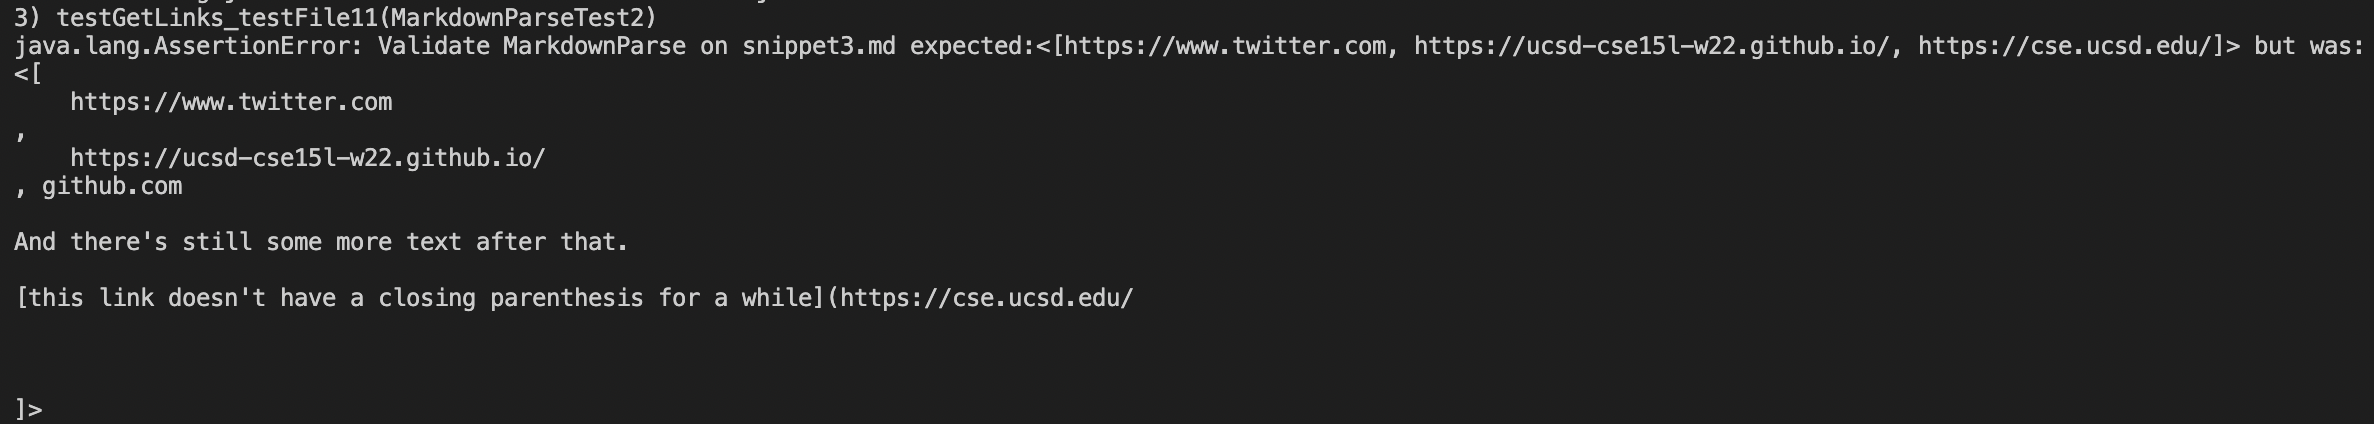
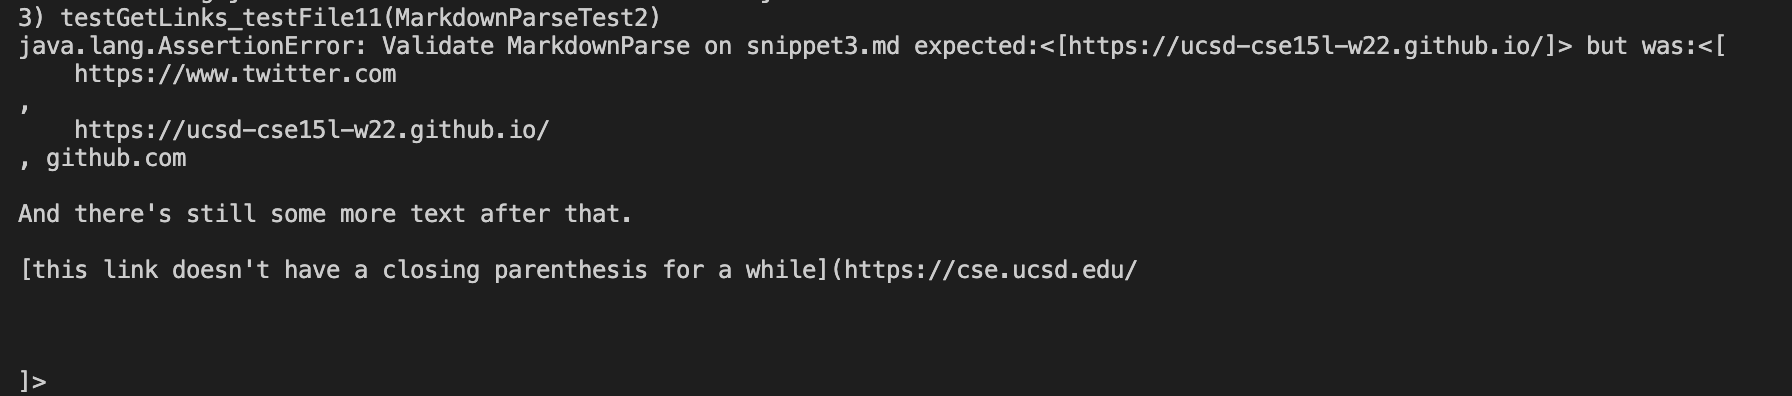
labreport4

diff --git a/lab-report-4-week-8.md b/lab-report-4-week-8.md
@@ -29,6 +29,9 @@
 
 **Output for other group's tests (all three failed)**
 
+![Image](lab4tests2.png)
+
+
 **Snippet 1**
 
 I do think the fix to this bug require a more involved change because there are several different cases where backticks can and cannot be included as part of the markdown for links. Backticks should be allowed in the link itself (as is the case in the second link) as long as they are not preceeded by another backtick before the parentheses. Backticks should also be allowed within the link discriptions (like in the last two links). However, backticks within the brackets cannot be preceeded/proceeded by backticks outside the brackets as that would create a code block that messes up the formatting of the link (as is the case with the first link). All these cases would need to be considered when fixing this bug so it does require a more involved change. 
@@ -36,3 +39,7 @@ I do think the fix to this bug require a more involved change because there are 
 **Snippet 2**
 
 These bugs can be solved by simple fixes. To fix the nested parentheses problem, we need to make sure all the parentheses within the link are paired up. Only update nextCloseParen if all parentheses within the link have pairs. A fix for the bracket problem could be to count a closed bracket as NextCloseBracket if and only if the character immediately following it is a open parenthesis. 
+
+**Snippet 3**
+
+I think fixing the first link in this snippet will require a more involved change as you'd have to write a function to detect linebreaks within the link description. Linebreaks should be allowed as long as they are not empty and continue the description as in the case of the second link. This function can also be used in the case of the third and fourth links to see if there are empty line breaks before the closing parenthesis. 
